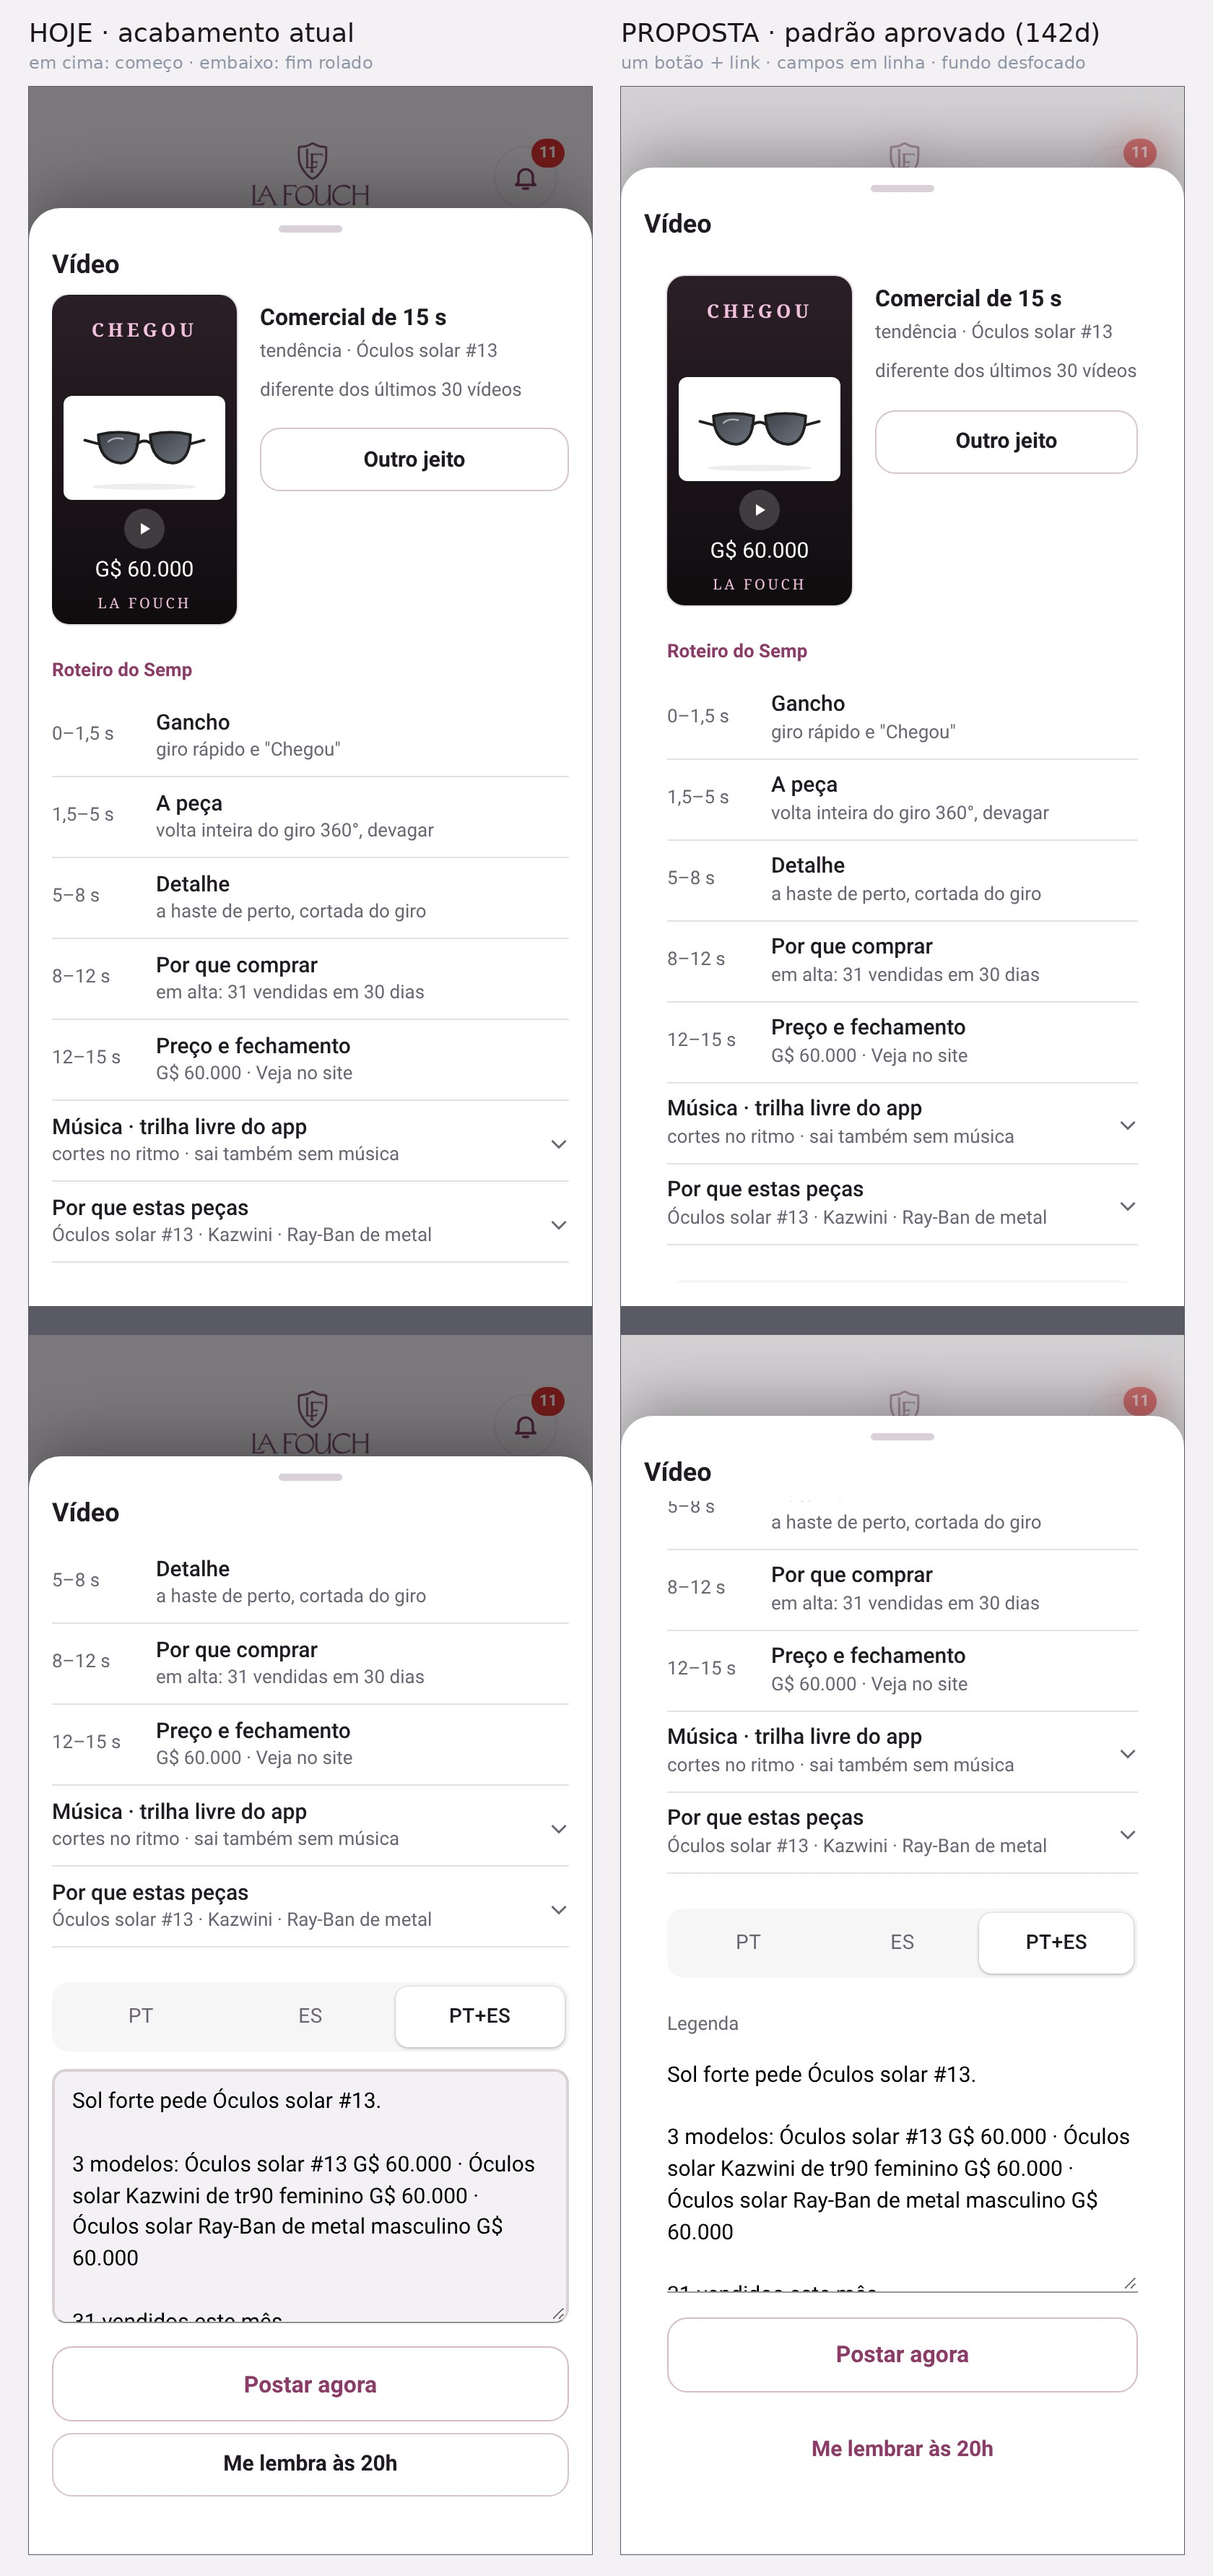
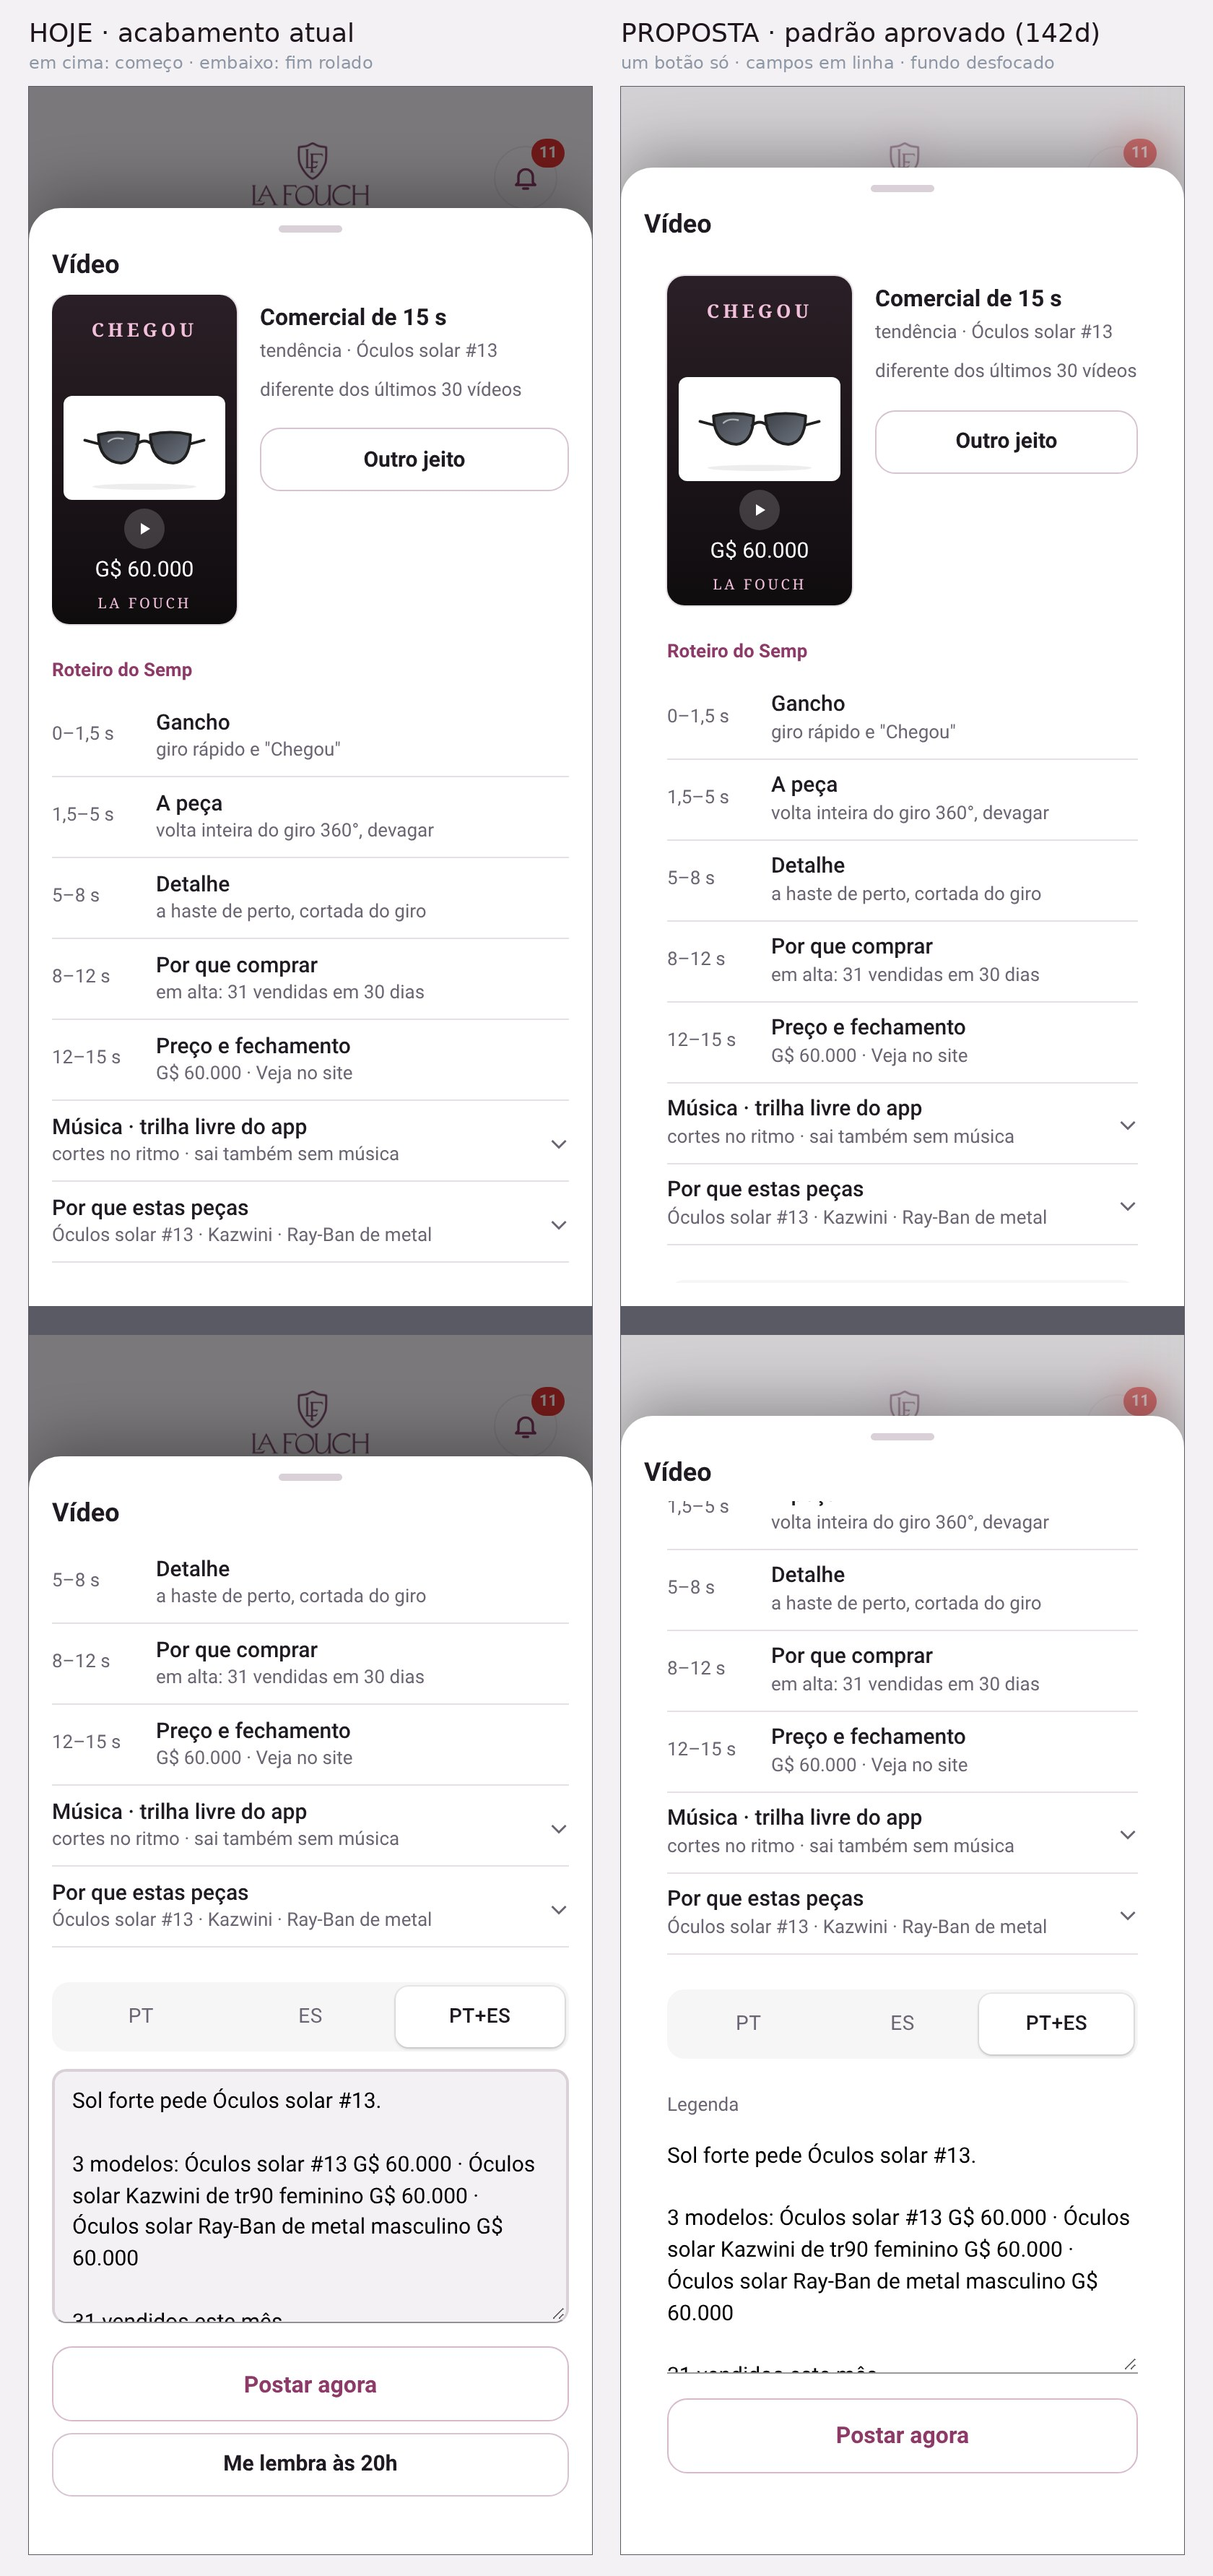
Janela do Vídeo sem 'Me lembra' (aprovado pelo dono)
Claude-Session: https://claude.ai/code/session_01Vj5GPRt4UBskC3w8v52h7G

Changed region(s): [[0.5571, 0.7782, 0.9286, 0.9649], [0.5571, 0.5914, 0.8048, 0.7471], [0.8048, 0.7471, 0.8976, 0.8093]]

diff --git a/work/semp/janela.py b/work/semp/janela.py
@@ -15,11 +15,8 @@ if(pc){j.style.cssText+=';left:50%;right:auto;top:72px;bottom:auto;transform:tra
 else{j.style.top='56px';j.style.height='calc(100vh - 56px)';j.style.maxHeight='none'}
 // 3) topo e botão: os do padrão aprovado (título à esquerda, UM botão de ação embaixo — 142d); só o 'Me lembra' deixa de ser um 2º botão
 const ac=getComputedStyle(j.querySelector('#mkPost')).color;
-// 4) "Me lembra" deixa de ser um 2º botão grande: vira o link rosa centralizado embaixo do botão (família Link, igual aos links do fim da ficha: "Vender no Catálogo ›")
-const lm=j.querySelector('#mkLemb');const ln=document.createElement('div');
-const lk=[...document.querySelectorAll('a,button,span')].find(e=>/›\s*$/.test(e.textContent)&&getComputedStyle(e).color===ac);
-ln.style.cssText='text-align:center;min-height:48px;display:flex;align-items:center;justify-content:center;margin-top:8px;font-size:15px;font-weight:600;color:'+ac;
-ln.textContent='Me lembrar às 20h';lm.replaceWith(ln);
+// 4) 'Me lembra' SAI (dono 20/11 13:28): o lembrete da hora já vem da Agenda do Semp pelo sino
+j.querySelector('#mkLemb').remove();
 // 5) legenda em linha fina (campo 149c), sem caixa
 const tx=j.querySelector('#mkTx');tx.style.cssText+=';border:0;border-bottom:1px solid var(--line2);border-radius:0;background:none;padding:8px 0;min-height:120px;box-shadow:none';
 const lb=document.createElement('div');lb.textContent='Legenda';lb.style.cssText='font-size:13px;color:var(--mute);margin-top:24px';tx.before(lb);
@@ -49,4 +46,4 @@ with sync_playwright() as pw:
       pg.locator('#v-mkt button[data-cria=video]').first.click();w(1500);pg.evaluate(JS3,ft);w(300)
       if fase=='prop': pg.evaluate(LUXO,False)
       q.append(foto(pg,fase+n,390,844));b.close()
-    quadro('esboco_janela_luxo_celular_%s.jpg'%n,esc,[('HOJE · acabamento atual','em cima: começo · embaixo: fim rolado',q[0]),('PROPOSTA · padrão aprovado (142d)','um botão + link · campos em linha · fundo desfocado',q[1])],780)
+    quadro('esboco_janela_luxo_celular_%s.jpg'%n,esc,[('HOJE · acabamento atual','em cima: começo · embaixo: fim rolado',q[0]),('PROPOSTA · padrão aprovado (142d)','um botão só · campos em linha · fundo desfocado',q[1])],780)

diff --git a/docs/FALTA-APROVAR-15-11.md b/docs/FALTA-APROVAR-15-11.md
@@ -833,3 +833,4 @@ Não são esquecimento (estavam na lista, parados de propósito ou por ordem do 
 - 20/11 12:55 — ESBOÇO-IDEIA janela de baixo de luxo (pergunta do dono 12:43–12:44; exemplo = janela Vídeo do Semp): work/semp/esboco_janela_luxo_celular_{escuro,claro}.jpg e _pc_escuro.jpg — título no centro e ação principal no canto de cima ('Postar'), nada embaixo; 'Me lembra' vira linha fina 'Postar depois · Lembrar'; legenda em linha fina (149c) com rótulo; fundo de trás desfocado; altura fixa (grande = até 56 px do topo); no PC painel no centro (560 px). Valeria para TODAS as janelas. ESPERANDO o dono.
 - 20/11/2026 13:40 — ✅ PUBLICADO v577 (5.50.2, S436; por dentro — 6b + ordem do dono 10:04): REMENDOS PARTE 2a (item 25) — inicioGo (abre tela pelo nome) e navOn (botão aceso) viraram UMA função cada em src/89-inicio.js, com todos os destinos; saíram os 11 embrulhos de 97y-familias-s265, 98z-s374, 98z-s374c e 98z-s374d. Prova: tabela de 42 destinos × todos os botões acesos IGUAL antes × depois, com famílias e com a barra antiga (work/s436/remendos/equiv_nav.py) + 0 diferenças em 60 telas × celular claro e tablet escuro (prova-v577/); 332/332 testes; teto: embrulhos 57 → 46, reescritas 58 → 47. Trava "Item 25". Desenho da 2b (grupos) guardado em work/s436/remendos/parte2b_notas.md.
 - 20/11 13:24 — DONO: PC e notebooks vão ganhar um DESIGN PRÓPRIO (interação com mouse é diferente); por enquanto NÃO fazer esboços de PC — só celular (e tablet quando couber). O 'painel no centro' da janela de baixo fica para esse projeto.
+- 20/11 13:28 — DONO: APROVADO tirar o 'Me lembra às 20h' da janela do Vídeo (com o Semp, o lembrete vem da Agenda pelo sino). Esboço da janela de baixo (padrão da loja + linha fina, fundo desfocado, altura fixa) refeito sem ele; o resto da janela ESPERANDO o dono.
